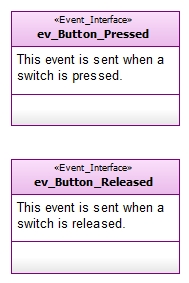
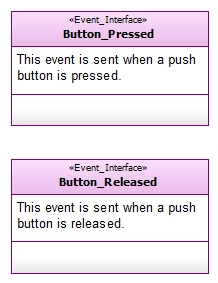
Transfert to Embedded_C_Framework

diff --git a/src/Button_Released.h b/src/Button_Released.h
@@ -1,0 +1,8 @@
+#ifndef BUTTON_RELEASED_H
+#define BUTTON_RELEASED_H
+
+/* Event_Interface */
+/* Sent when a push button is released. */
+typedef void (*Button_Released) ( void );
+
+#endif

diff --git a/src/Button_Pressed.h b/src/Button_Pressed.h
@@ -1,0 +1,8 @@
+#ifndef BUTTON_PRESSED_H
+#define BUTTON_PRESSED_H
+
+/* Event_Interface */
+/* Sent when a push button is pressed. */
+typedef void (*Button_Pressed) ( void );
+
+#endif
